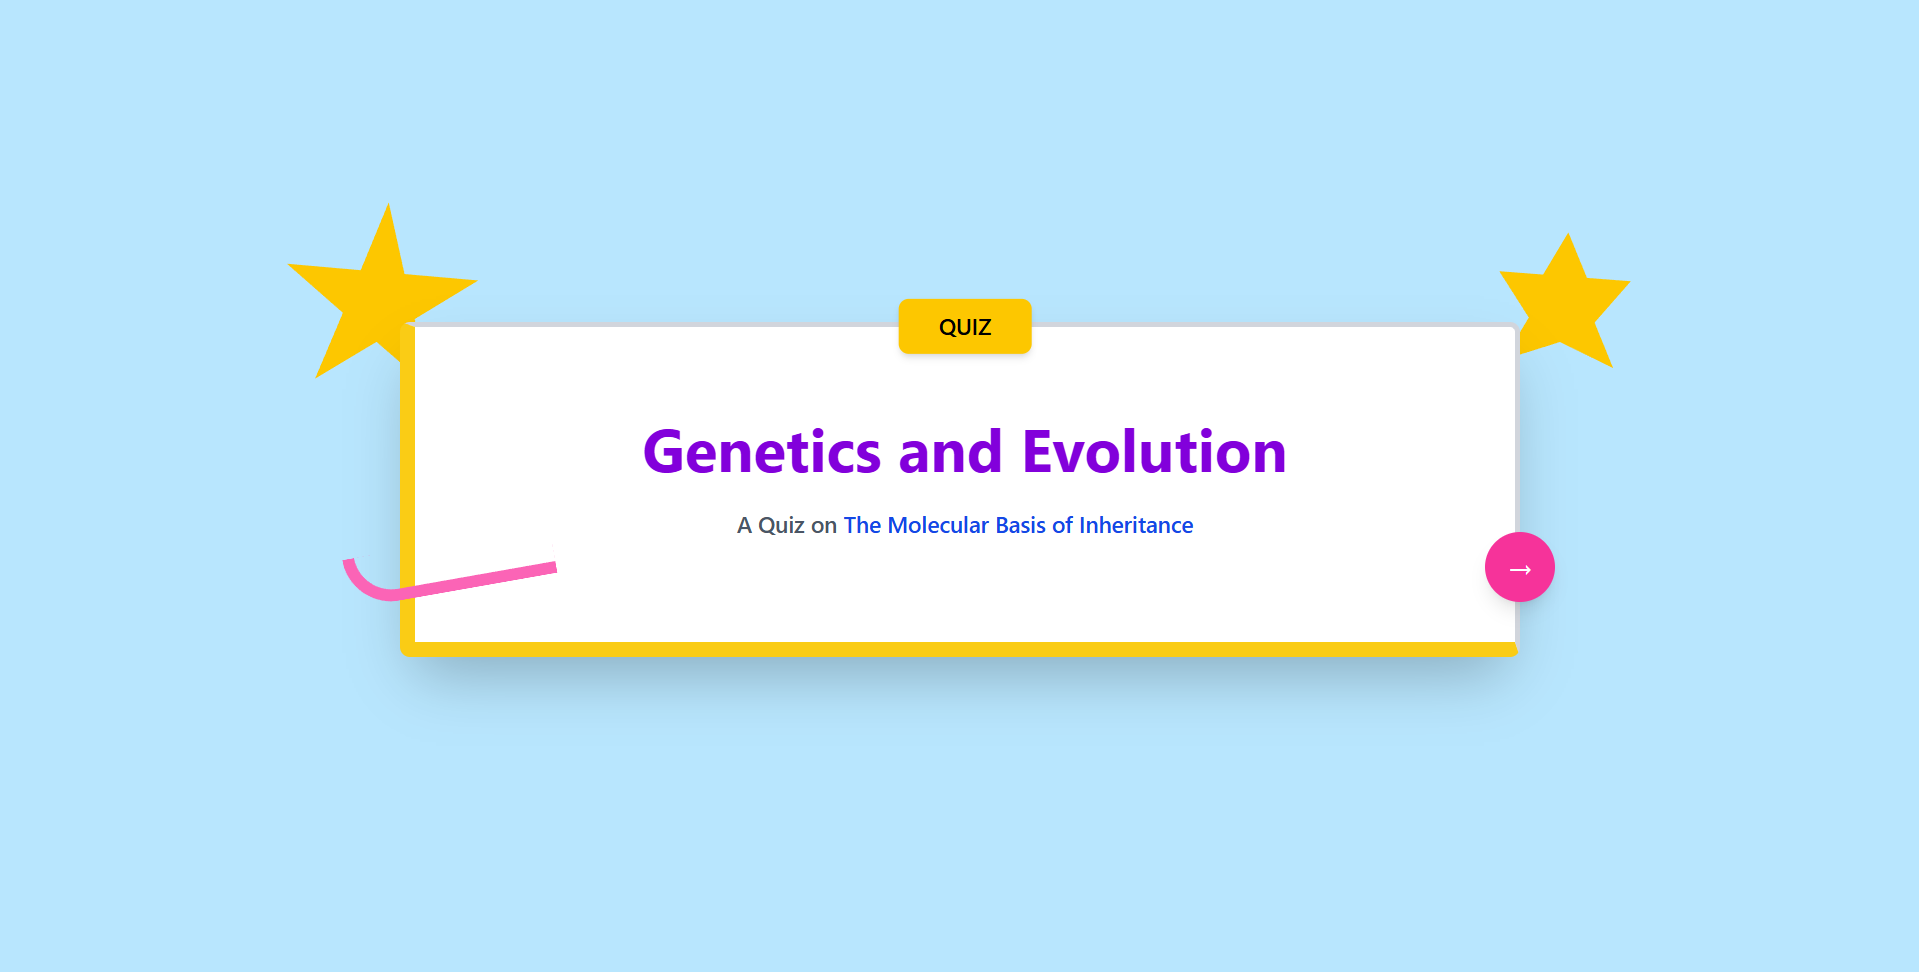
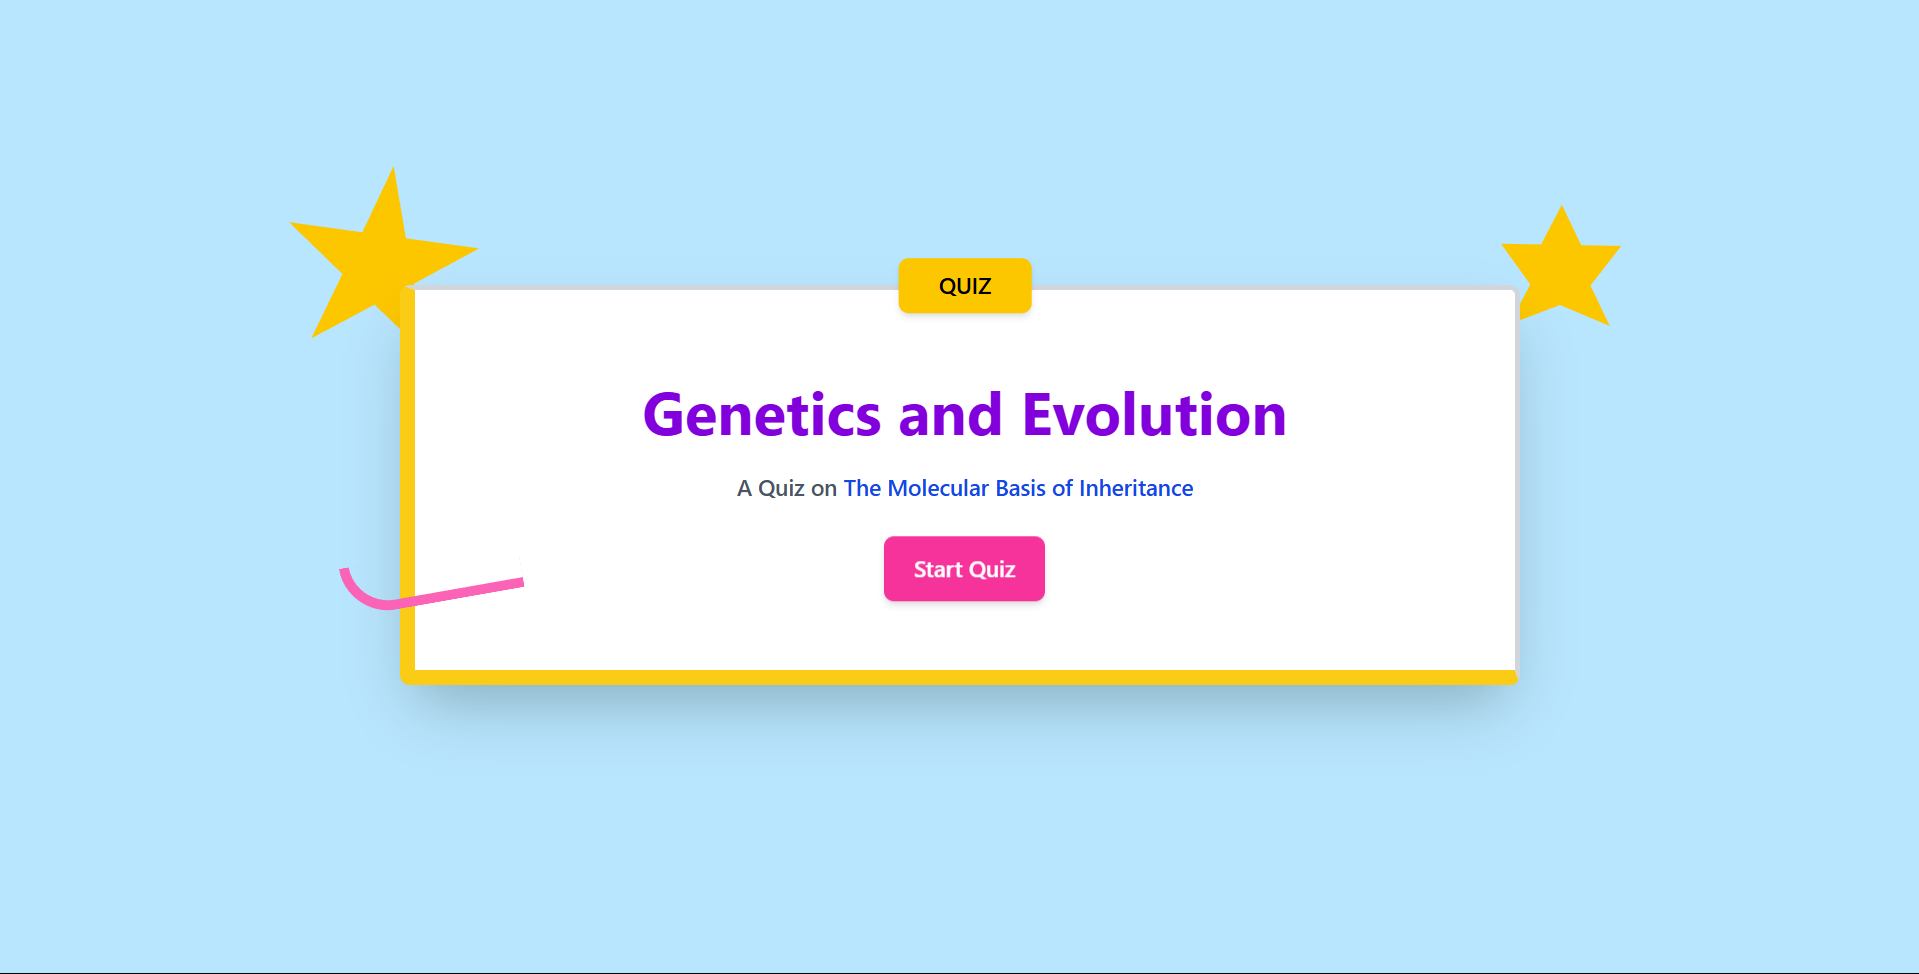
Final Commit

diff --git a/src/components/IntroCard.jsx b/src/components/IntroCard.jsx
@@ -80,21 +80,23 @@ const IntroCard = () => {
             </p>
           </motion.div>
 
-          {/* More Horizontal and Curved Line on the Left */}
+          {/* Animated Curved Line on the Left */}
           <motion.div
             animate={{ scale: 1, x: [0, -10, 0], y: [0, -10, 10, 0] }}
             transition={{ duration: 3, repeat: Infinity, ease: 'easeInOut' }}
-            className="absolute -left-12 bottom-8 w-42 h-10 border-l-[10px] border-b-[10px] border-pink-400 rounded-bl-full rotate-[-10deg]"
+            className="absolute -left-12 bottom-12 w-36 h-10 border-l-[8px] border-b-[8px] border-pink-400 rounded-bl-full rotate-[-10deg]"
           />
 
+          {/* Centered Start Button */}
           <motion.button
-            animate={{ scale: 1, y: [0, -10, 0] }}
-            whileHover={{ scale: 1.2 }}
+            animate={{ scale: 1,  y: [0, -10, 10, 0]}}
+            transition={{ duration: 3, repeat: Infinity, ease: 'easeInOut' }}
+            whileHover={{ scale: 1.1 }}
             whileTap={{ scale: 0.9 }}
-            className="absolute -right-8 bottom-8 w-14 h-14 bg-pink-500 rounded-full flex items-center justify-center cursor-pointer shadow-lg hover:bg-pink-600 transition-all"
+            className="mx-auto mt-8 block bg-pink-500 text-white px-6 py-3 rounded-lg text-lg font-semibold shadow-md hover:bg-pink-600 transition-all"
             onClick={handleStartQuiz}
           >
-            <span className="text-white font-bold text-2xl">→</span>
+            Start Quiz
           </motion.button>
         </motion.div>
       </div>
